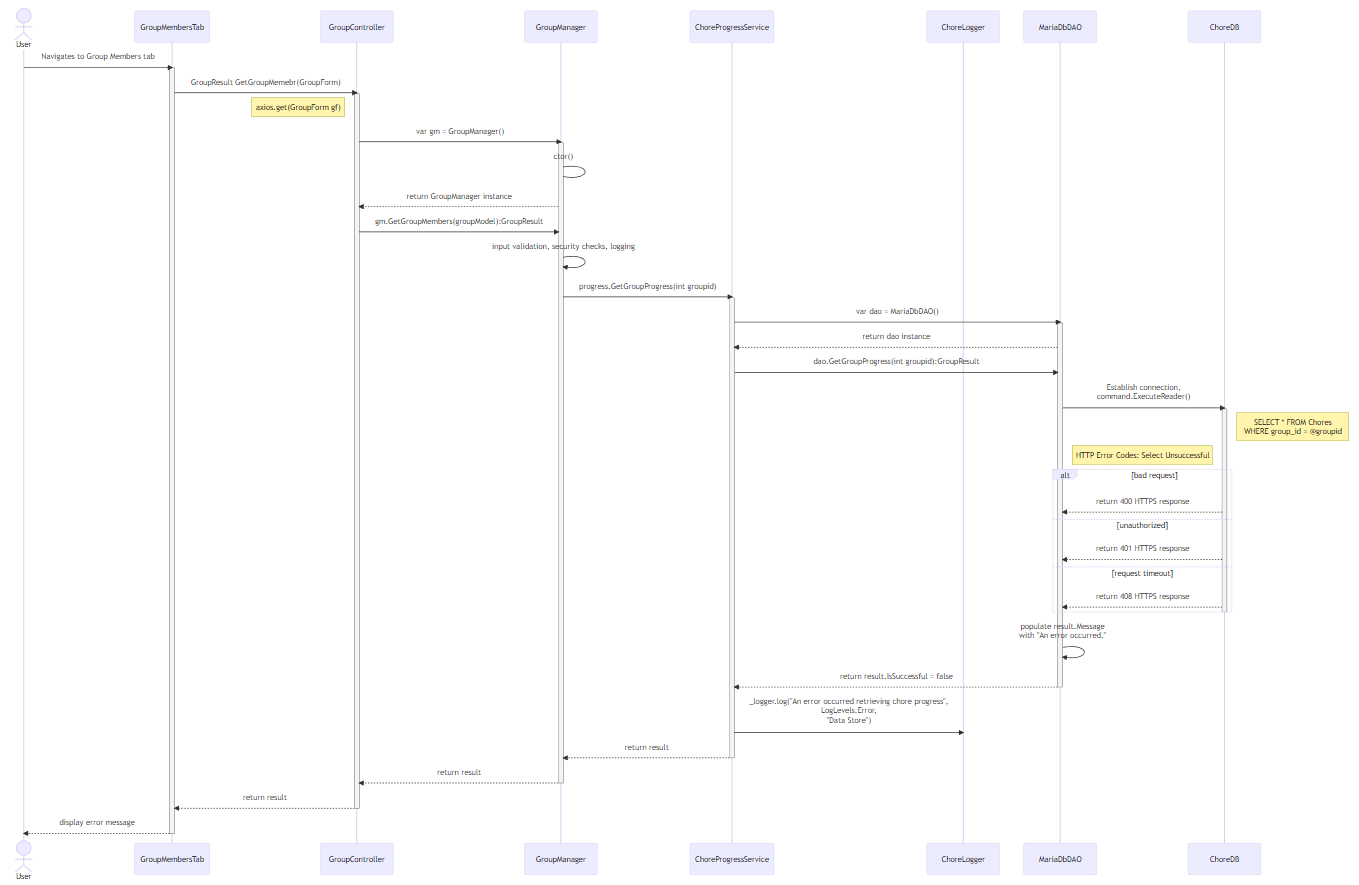
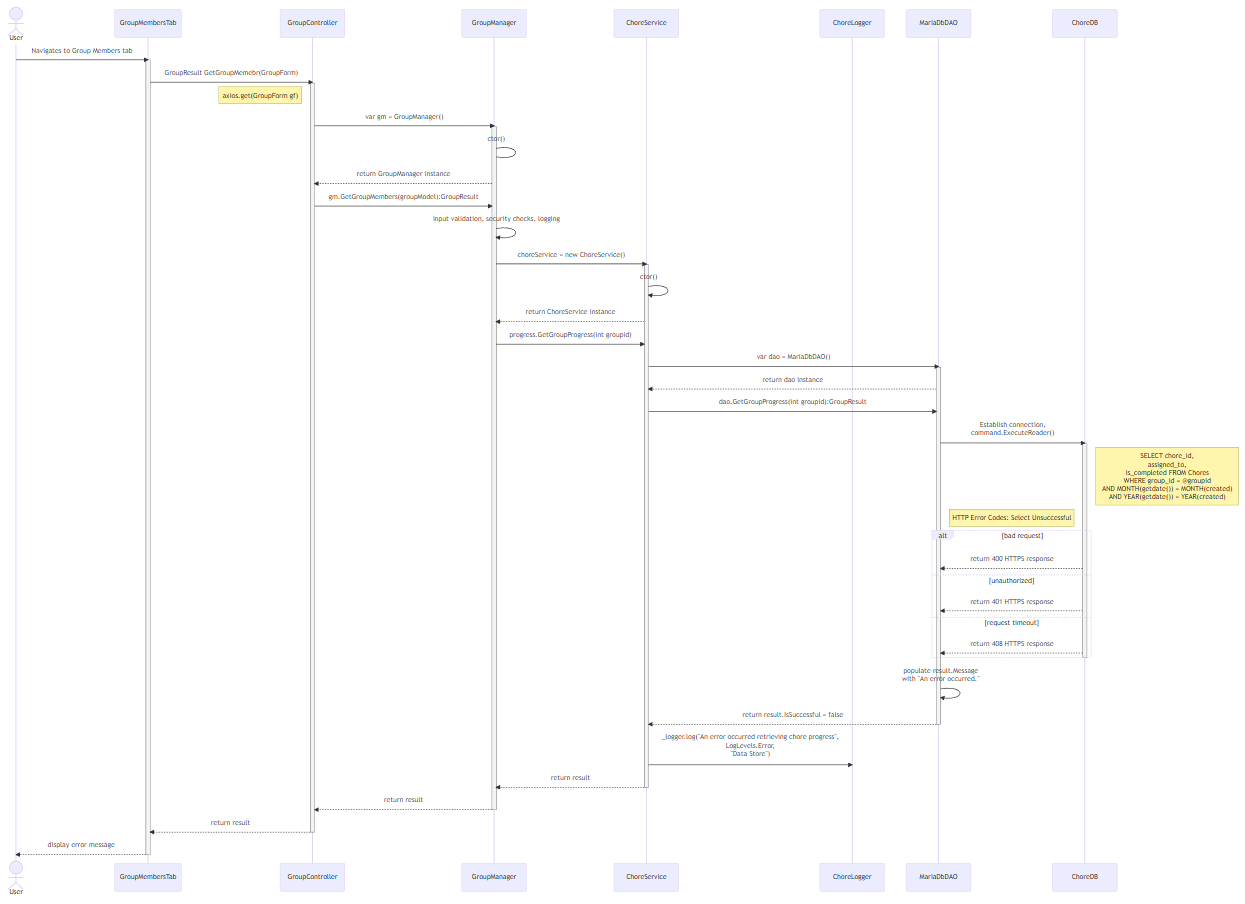
Added chore service, updated designs with chore db, added countdown for bar refresh

diff --git a/src/Frontend/HAGSJP.WeCasa.Frontend/ClientApp/src/components/Group/GroupMembersTab.js b/src/Frontend/HAGSJP.WeCasa.Frontend/ClientApp/src/components/Group/GroupMembersTab.js
@@ -14,10 +14,16 @@ export const GroupMembersTab = (props) => {
     const [membersList, setMembersList] = useState([]);
     const { currentUser, currentGroup } = useAuth();
     const [showInviteModal, setShowInviteModal] = useState(false);
-    const days = 0;
+    const [daysUntilRefresh, setDaysUntilRefresh] = useState(0);
 
     const getFullName = (first, last) => {
         return first + ' ' + last
+    }
+
+    const getDaysUntilRefresh = () => {
+        const currentDate = new Date();
+        const refreshDate = new Date(currentDate.getFullYear(), currentDate.getMonth() + 1, 1);
+        return Math.ceil(Math.abs(refreshDate.getTime() - currentDate.getTime()) / (1000 * 60 * 60 * 24));
     }
 
     const fetchMemberList = () => {
@@ -77,6 +83,7 @@ export const GroupMembersTab = (props) => {
 
     useEffect(() => {
         fetchMemberList()
+        setDaysUntilRefresh(getDaysUntilRefresh());
     }, [])
 
     return (
@@ -89,15 +96,15 @@ export const GroupMembersTab = (props) => {
                     </Col>
                 </Row>)
                 : (<div></div>)}
-            <Row gutter={24}>
-                <Col span={16}>
+            <Row gutter={[24, 24]} align="middle">
+                <Col span={10}>
                     <h6 className="padding-top">Group Owner</h6>
                 </Col>
-                <Col span={4}>
+                <Col span={4} offset={6}>
                     <h6 className="text-end padding-top">Chore progress</h6>
                 </Col>
                 <Col span={4}>
-                    <h6 className="text-end padding-top">Resets in {days} days</h6>
+                    <h6 className="text-end padding-top">Resets in {daysUntilRefresh} days</h6>
                 </Col>
             </Row>
             <Divider plain>

diff --git a/src/Frontend/HAGSJP.WeCasa.Frontend/ClientApp/src/styles/CircularProgressBar.css b/src/Frontend/HAGSJP.WeCasa.Frontend/ClientApp/src/styles/CircularProgressBar.css
@@ -18,7 +18,8 @@
 
 [role="progressbar"] {
     --percentage: var(--value);
-    --primary: black;
+    --text: black;
+    --primary: #10B364;
     --secondary: #0D77CF;
     --size: 200px;
     animation: progress 2s 0.5s forwards;
@@ -40,9 +41,10 @@
         width: 100%;
         height: 100%;
         background: conic-gradient(from 0.75turn at 50% 100%, var(--primary) calc(var(--percentage) * 1% / 2), var(--secondary) calc(var(--percentage) * 1% / 2 + 0.1%));
-        mask: #10B364;
+        mask: radial-gradient(at 50% 100%, white 55%, transparent 55.5%);
         mask-mode: alpha;
         -webkit-mask: radial-gradient(at 50% 100%, #0000 55%, #000 55.5%);
+        -webkit-mask-mode: alpha;
     }
 
 [role="progressbar"]::after {
@@ -50,5 +52,5 @@
     content: counter(percentage) '%';
     font-family: Mulish;
     font-size: calc(var(--size) / 5);
-    color: var(--primary);
+    color: var(--text);
 }

diff --git a/src/Frontend/HAGSJP.WeCasa.Frontend/ClientApp/src/components/CircularProgressBar.js b/src/Frontend/HAGSJP.WeCasa.Frontend/ClientApp/src/components/CircularProgressBar.js
@@ -1,21 +1,20 @@
 import React, { Component, useState, useEffect } from 'react';
-import { Modal, ConfigProvider, Button, Form, Input, Row, Col, notification, Card, Image, Space} from 'antd';
-import * as Styles from '../styles/ConstStyles.js';
 import '../styles/CircularProgressBar.css';
 import '../styles/System.css';
 import '../index.css';
-import { useAuth } from './AuthContext.js';
-import axios from 'axios';
-const { Meta } = Card;
 
 export const CircularProgressBar = (props) => {
-    const value = props.percentage;
+    // const value = props.percentage;
+    const value = 33;
 
     return (
+        <div>
         <div role="progressbar"
-            aria-valuenow={value}
             aria-valuemin="0"
-            aria-valuemax="100">
+            aria-valuemax="100"
+            style={{ "--value": value }}>
+        </div>
+            <p>chores completed</p>
         </div>
     );
 };

diff --git a/src/Frontend/HAGSJP.WeCasa.Frontend/ClientApp/src/components/Group/Groups.js b/src/Frontend/HAGSJP.WeCasa.Frontend/ClientApp/src/components/Group/Groups.js
@@ -139,7 +139,7 @@ export const Groups = (props) => {
 
     return (
         <div>
-             <div><Space direction="horizonal" size={32}>
+             <div><Space direction="horizonal" size={32} wrap>
                     {displayGroupView()}
                   </Space>
                     <Row gutter={24} style={{ display: "flex" }}>

diff --git a/src/Frontend/HAGSJP.WeCasa.Frontend/Controllers/GroupController.cs b/src/Frontend/HAGSJP.WeCasa.Frontend/Controllers/GroupController.cs
@@ -40,12 +40,21 @@ namespace HAGSJP.WeCasa.Frontend.Controllers
 
         [HttpPost]
         [Route("GetGroupMembers")]
-        public GroupResult GetGroupMembers([FromBody] GroupMemberForm groupForm)
+        public async Task<GroupResult> GetGroupMembers([FromBody] GroupMemberForm groupForm)
         {
             var groupModel = new GroupModel();
-            groupModel.GroupId = groupForm.GroupId;
-            var groupManager = new GroupManager();
-            var result = groupManager.GetGroupMembers(groupModel);
+            var result = new GroupResult();
+            try
+            {
+                groupModel.GroupId = groupForm.GroupId;
+                var groupManager = new GroupManager();
+                result = groupManager.GetGroupMembers(groupModel);
+            }
+            catch (Exception ex)
+            {
+                result.IsSuccessful = false;
+                result.Message = ex.Message;
+            }
             return result;
         }
 

diff --git a/src/Services/HAGSJP.WeCasa.Services/Implementations/ChoreService.cs b/src/Services/HAGSJP.WeCasa.Services/Implementations/ChoreService.cs
@@ -1,0 +1,30 @@
+using System;
+using HAGSJP.WeCasa.Logging.Implementations;
+using System.Data.SqlTypes;
+using System.Text;
+using HAGSJP.WeCasa.Models;
+using HAGSJP.WeCasa.sqlDataAccess;
+using HAGSJP.WeCasa.sqlDataAccess.Abstractions;
+using Microsoft.AspNetCore.Identity;
+
+namespace HAGSJP.WeCasa.Services.Implementations
+{
+    public class ChoreService
+    {
+        private readonly GroupMariaDAO _dao;
+        private Logger successLogger;
+        private Logger errorLogger;
+        public ChoreService()
+        {
+            _dao = new GroupMariaDAO();
+            successLogger = new Logger(_dao);
+            errorLogger = new Logger(_dao);
+        }
+        public ChoreService(GroupMariaDAO dao)
+        {
+            _dao = dao;
+            successLogger = new Logger(dao);
+            errorLogger = new Logger(dao);
+        }
+    }
+}
